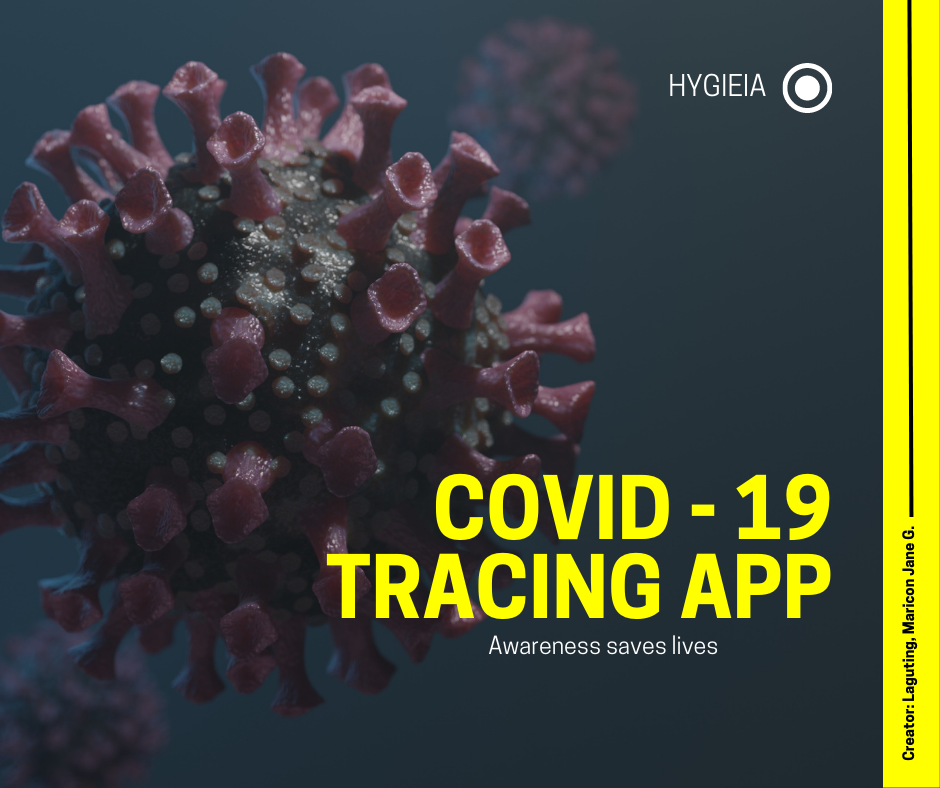
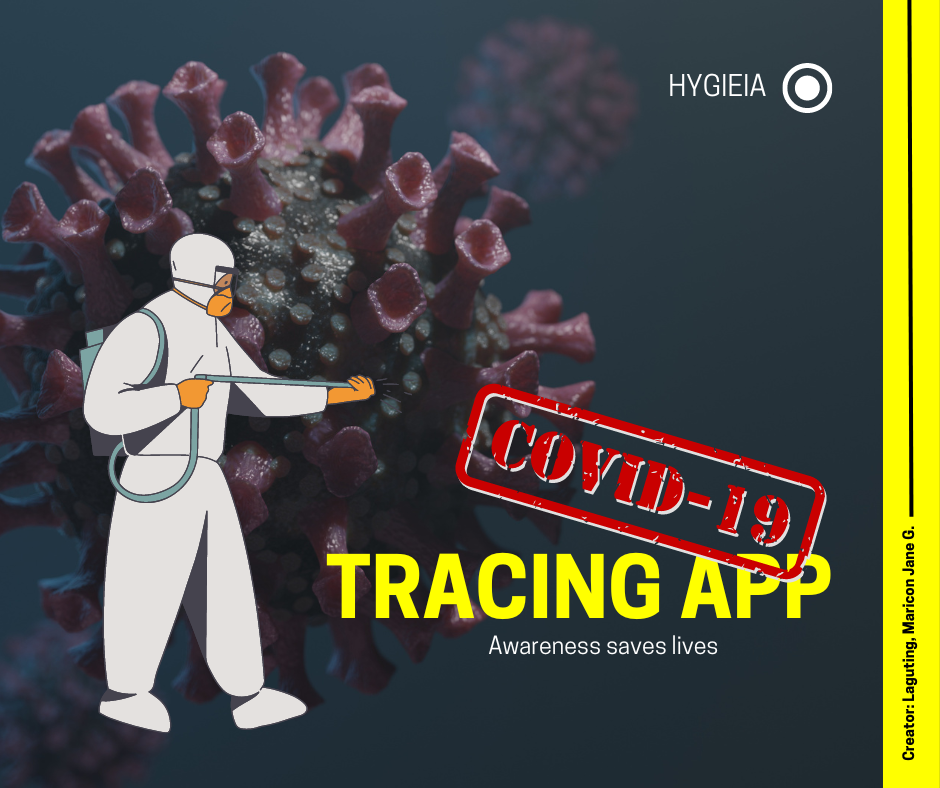
Changed the baground photos and added an edit entry button to allow users to edit their entry if they want to

Changed region(s): [[0.0617, 0.2741, 0.4011, 0.9442], [0.4628, 0.4873, 0.8947, 0.7614], [0.7404, 0.0914, 0.7713, 0.1218]]

diff --git a/search_bar.py b/search_bar.py
@@ -11,7 +11,7 @@ class Search_Bar(tk.Frame):
         self.label.pack(fill="both", expand=1)
 
         # Background
-        self.initial_bg = Image.open("register.png")
+        self.initial_bg = Image.open("search.png")
         self.bg = ImageTk.PhotoImage(self.initial_bg)
         self.bg_name = tk.Label(self, image=self.bg)
         self.bg_name.place(x=0, y=0, relwidth=1, relheight=1)
@@ -20,29 +20,32 @@ class Search_Bar(tk.Frame):
 # Search
     # Search label
         self.search_label = tk.Label(self, bg="yellow", fg="black", text="Search by Name:")
-        self.search_label.place(x=30, y=45)
+        self.search_label.place(x=60, y=250)
     # Search entry
         self.search_entry = tk.Entry(self, width=100)
-        self.search_entry.place(x=250, y=45)
+        self.search_entry.place(x=180, y=250)
     # Search button
         self.search_button = tk.Button(self, text="Search", command=self.search_registration)
-        self.search_button.place(x=780, y=45)
+        self.search_button.place(x=820, y=250)
     # Search button result
         self.result_label = tk.Label(self, bg="yellow", fg="black", text="")
-        self.result_label.place(x=150, y=100)
+        self.result_label.place(x=230, y=300)
     # Present Search
         self.present_button = tk.Button(self, text="View Entry", command=self.view_entry, state=tk.DISABLED)
-        self.present_button.place(x=450, y=720)
+        self.present_button.place(x=400, y=720)
+    # Edit Button
+        self.edit_button = tk.Button(self, text="Edit Entry", command=self.edit_entry, state=tk.DISABLED)
+        self.edit_button.place(x=500, y=720)
 
         self.registration_info = ""
 
 # Navigation buttons
     # Back to home
         self.back_button = tk.Button(self, text="Back to Home", command=lambda: self.change_section(0))
-        self.back_button.place(x=250, y=720)
+        self.back_button.place(x=270, y=720)
     # Exit
         self.exit_button = tk.Button(self, text="Exit", command=lambda: self.change_section(2))
-        self.exit_button.place(x=650, y=720)
+        self.exit_button.place(x=600, y=720)
 
 # Background image
     def resize_image(self, event):
@@ -105,6 +108,52 @@ class Search_Bar(tk.Frame):
         confirmation = messagebox.askyesno("View Entry", "Do you want to view the registration entry?")
         if confirmation:
             self.result_label.config(text=self.registration_info)
+
+# Allow the user to edit their entry
+    def edit_entry(self):
+        confirmation = messagebox.askyesno("Edit Entry", "Do you want to edit the registration entry?")
+        if confirmation:
+        # Open a new window or form to edit the registration information
+            edit_window = tk.Toplevel(self.parent)
+            edit_window.title("Edit Entry")
+
+            # Create labels and entry fields for each registration field
+            fields = self.registration_info.strip().split("\n")
+            entry_labels = []
+            entry_fields = []
+
+            for field in fields:
+                label_text, value_text = field.split(":", 1)
+                label_text = label_text.strip()
+                value_text = value_text.strip()
+
+                # Label
+                label = tk.Label(edit_window, text=label_text)
+                label.grid(row=len(entry_labels), column=0, sticky=tk.W, padx=10, pady=5)
+                entry_labels.append(label)
+            # Save Button
+            save_button = tk.Button(edit_window, text="Save", command=lambda win=edit_window: self.save_edited_entry(entry_fields, win))
+        save_button.grid(row=len(entry_fields) + 1, columnspan=2, padx=10, pady=10)
+# Save the edited entry
+    def save_edited_entry(self, entry_fields, edit_window):
+        # Get the edited values from the entry fields
+        edited_values = [entry.get() for entry in entry_fields]
+
+        # Update the registration information
+        updated_registration_info = ""
+        fields = self.registration_info.strip().split("\n")
+        for i, field in enumerate(fields):
+            label_text = field.split(":")[0].strip()
+            updated_registration_info += f"{label_text}: {edited_values[i]}\n"
+
+        # Update the registration info variable
+        self.registration_info = updated_registration_info
+
+        # Close the edit window
+        edit_window.destroy()
+
+        # Display the updated registration information
+        self.display_registration_info()
 
     def present(self):
         self.pack()

diff --git a/registration.py b/registration.py
@@ -16,9 +16,6 @@ class Register(tk.Frame):
         self.bg_name = tk.Label(self, image=self.bg)
         self.bg_name.place(x=0, y=0, relwidth=1, relheight=1)
         self.bind("<Configure>", self.resize_image)
-        
-        self.info = tk.Label(self,bg="black", fg="yellow",text = "Registration ", height=1, font=("Times New Roman", 13))
-        self.info.place(x=400, y=45)
 
 # Personal Information Labels
     # Name
@@ -194,17 +191,22 @@ class Register(tk.Frame):
     # Save the informations in txt file
         with open("user_inputs_folder.txt", "a") as file:
             file.write("                              Registration Information:\n")
+            file.write("")
             file.write("Name:       {}\n".format(name))
             file.write("Address:    {}\n".format(address))
             file.write("Birth Date:    {}\n".format(birth_date))
             file.write("Phone Number:    {}\n".format(phone_number))
             file.write("Email Address:   {}\n".format(email_add))
+            file.write("")
             file.write("                                     Health Status:\n")
+            file.write("")
             file.write("Name:       {}\n".format(name))
             file.write("Vaccination Status:   {}\n".format(vaccination_status))
             file.write("Have you tested positive?:  {}\n".format(positive))
             file.write("Have you been in contact with someone since you felt the symptoms?:   {}\n".format(contact))
+            file.write("")
             file.write("                               Close Contact Information:\n")
+            file.write("")
             file.write("Close Contact Name:    {}\n".format(close_contact_name))
             file.write("Close Contact Address:    {}\n".format(close_contact_address))
             file.write("Close Contact Phone:    {}\n".format(close_contact_phone))
@@ -212,21 +214,6 @@ class Register(tk.Frame):
             file.write("\n")
         # Perform further processing or save the registration information
             messagebox.showinfo("Registration Information", "You Registration Information has been recorded")
-        # Print the registration information as an example
-        print("Registration Information:")
-        print("Name:", name)
-        print("Address:", address)
-        print("Birth Date:", birth_date)
-        print("Phone Number:", phone_number)
-        print("Email Address:", email_add)
-        print("Vaccination Status:", vaccination_status)
-        print("Have you tested positive?:", positive)
-        print("Have you been in contact with someone since you felt the symptoms?:", contact)
-        print("Close Contact Information:")
-        print("Close Contact Name:", close_contact_name)
-        print("Close Contact Address:", close_contact_address)
-        print("Close Contact Phone:", close_contact_phone)
-        print("Close Contact Email Address: ", close_contact_email)
 
         #Resize image
     def resize_image(self, event):

diff --git a/tempCodeRunnerFile.py b/tempCodeRunnerFile.py
@@ -1,32 +1,8 @@
-import tkinter as tk
-from home import Home
-from registration import register
 
-class CovidTrace(tk.Tk):
-    def __init__(self):
-        super().__init__()
-
-        # Initial interface
-        self.title("Hygieia")
-        self.geometry("940x788")
-        self.sections = []
-        self.currentsection = 0
-        
-        # Sections
-        self.section_0 = Home(self, self.change_section)
-        self.section_1 = register(self, self.change_section)
-        self.sections = [self.section_0, self.section_1]
-        
-        # Show initial section
-        self.present_section(self.currentsection)
-
-    def present_section(self, section_n):
-        section = self.sections[section_n]
-        section.pack(fill="both", expand=True)
-        self.present = section_n
     
     def change_section(self, section_n):
-        self.sections[self.currentsection].hide()
+        for section in self.sections:
+            section.hide()
         self.present_section(section_n)
 
 if __name__ == "__main__":
